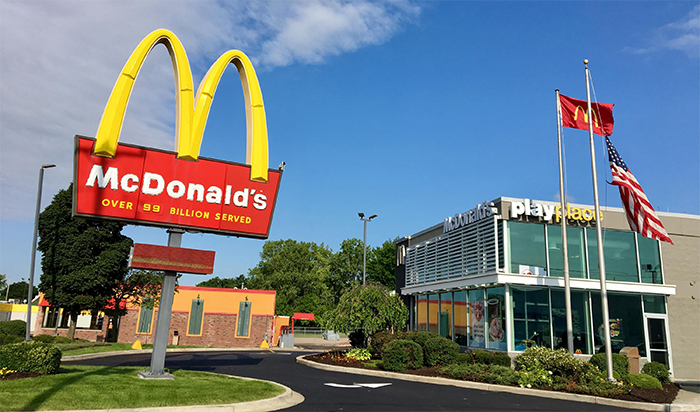
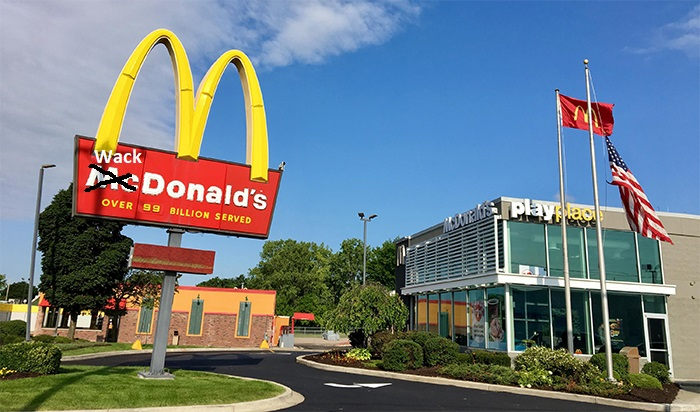
Vladimirski central

diff --git a/src/app/home/home.component.html b/src/app/home/home.component.html
@@ -5,7 +5,7 @@
                   </video> 
         <div id="welcometext">       
         <h4>Welcome to the official</h4>
-        <h1><span id="mekdonalds">MEKDONALDS</span></h1>
+        <h1><span id="mekdonalds">WACKDONALDS</span></h1>
         <h4 id="welcome-webiste">website !!</h4>
         </div>   
     </div>

diff --git a/src/app/app.component.html b/src/app/app.component.html
@@ -4,7 +4,7 @@
       
   <div class="header">
       <img src="../assets/img/file.jpg" alt="slika">
-    <a href="#" routerLink="/" class="logo">MekDonalds</a>
+    <a href="#" routerLink="/" class="logo">WackDonalds</a>
     <nav>
       <ul>
         <li><a href="#" routerLink="/">Home</a></li>

diff --git a/src/styles.scss b/src/styles.scss
@@ -24,6 +24,8 @@ body {
 .header {
     min-width: 100%;
     margin: 0 auto;
+    
+   
 }
 
 header {
@@ -42,7 +44,7 @@ header {
     img {
       
       float: left;
-      width: 30px;
+      width: 45px;
       padding-right: 25px;
       padding-left: 5px;
      

diff --git a/src/app/app.component.ts b/src/app/app.component.ts
@@ -6,5 +6,5 @@ import { Component } from '@angular/core';
   styleUrls: ['./app.component.scss']
 })
 export class AppComponent {
-  title = 'MekDonalds';
+  title = 'WackDonalds';
 }
